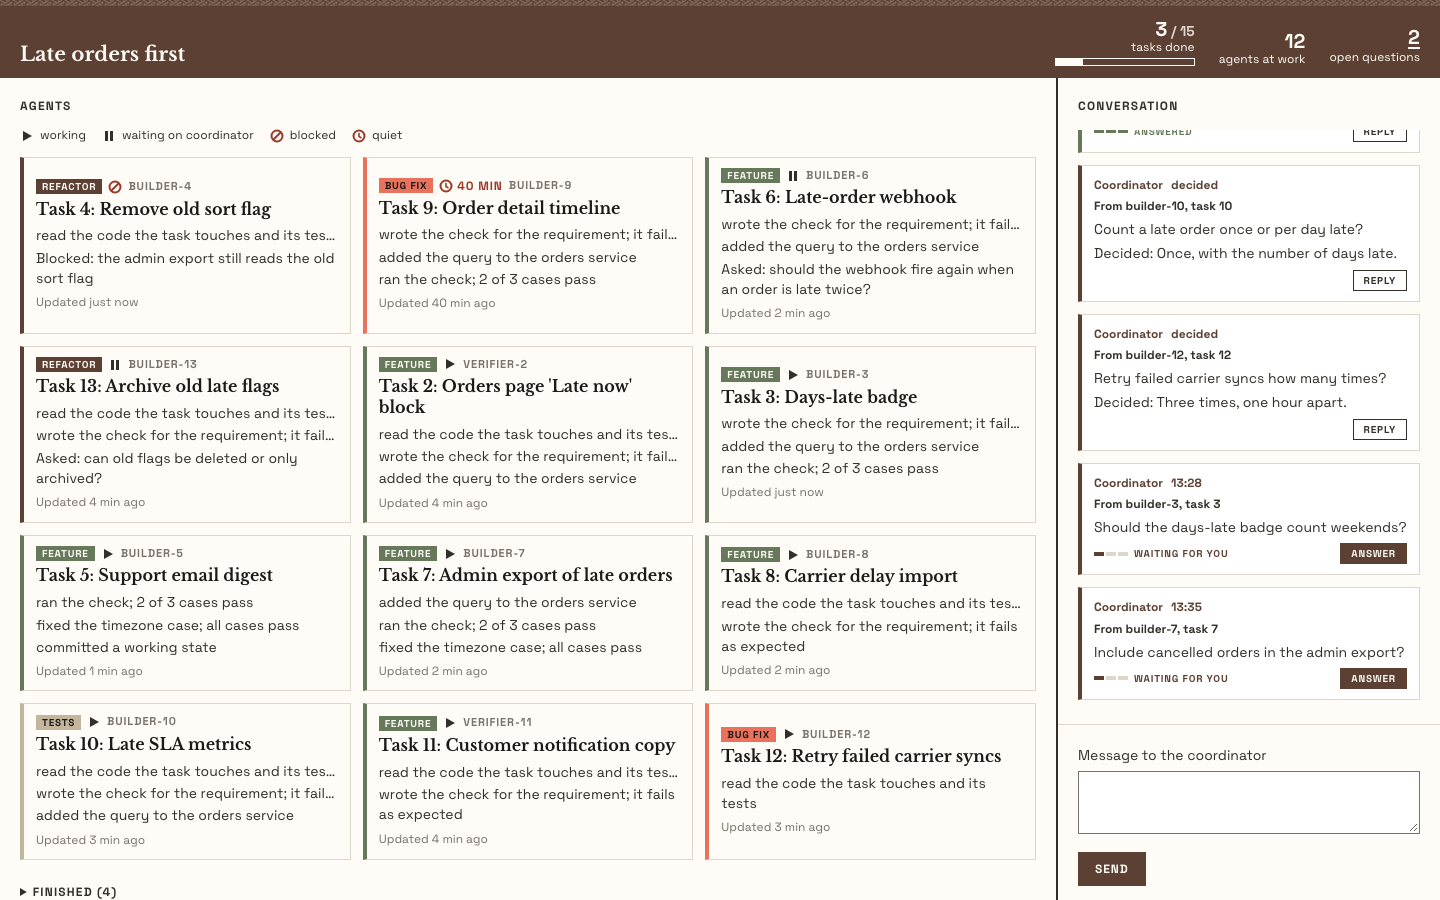
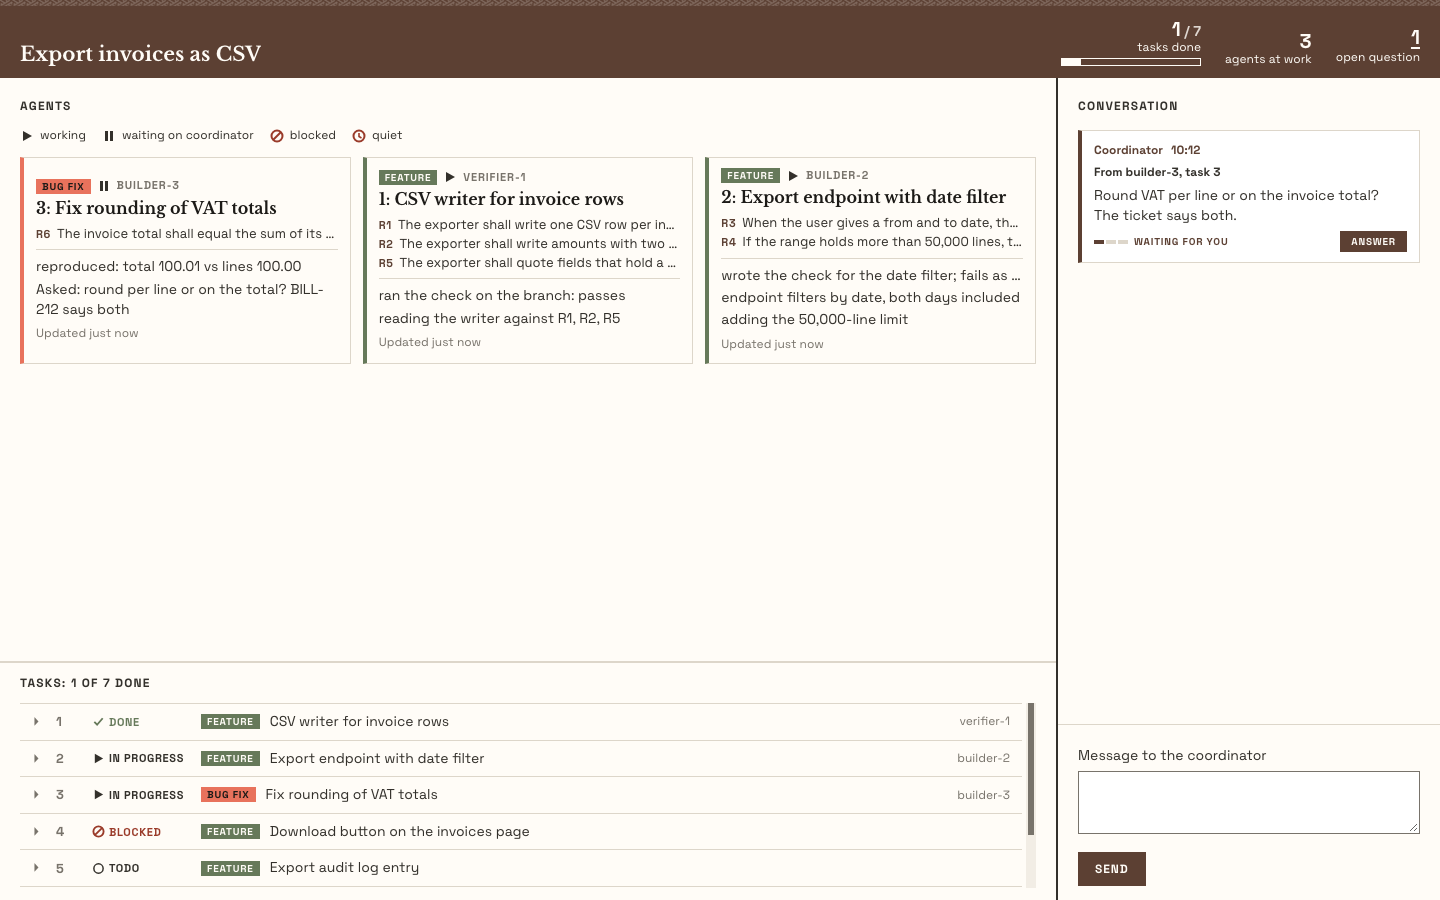
fix(code-better): verifier findings on the dashboard tasks
Close an open pop-up when its agent hands back, keep a JSON null from
showing as "None", match no task when an agent names none, hide a start
line written with a space before its colon, ask the coordinator for the
agent file before verifiers too, and update the docs and screenshot.

diff --git a/skills/code-better/scripts/dashboard.html b/skills/code-better/scripts/dashboard.html
@@ -190,7 +190,7 @@ const ICON = {
 const stateIcon = (a, now) => { const s = stateOf(a, now), w = word(a, now);
   return `<span class="state ${s}" role="img" aria-label="${esc(w)}" title="${esc(w)}">${ICON[s]}${s === "quiet" ? esc(w.replace(/^quiet /, "")) : ""}</span>`; };
 const who = a => esc(a.name);
-const taskOf = a => (D.tasks || []).find(t => t.id === a.task);
+const taskOf = a => a.task ? (D.tasks || []).find(t => t.id === a.task) : undefined;
 // A task's requirements with their text from specs.md; an ID the spec does not hold shows as missing, not hidden.
 const reqsOf = t => ((t || {}).requirements || []).map(id => [id, (D.requirements || {})[id]]);
 const reqItems = t => reqsOf(t).map(([id, text]) => `<li dir="auto"><b>${esc(id)}</b>${text ? esc(text) : '<span class="missing">not in the spec</span>'}</li>`).join("");
@@ -208,7 +208,7 @@ function drawAgents(d) {
       <p class="meta">${modeTag(a)} ${stateIcon(a, now)} ${who(a)}</p>
       <h3 dir="auto">${esc(taskLabel(a))}</h3>
       ${reqsOf(taskOf(a)).length ? `<ul class="reqs">${reqItems(taskOf(a))}</ul>` : ""}
-      <ol>${a.lines.filter(l => !l.toLowerCase().startsWith("start:")).slice(-3).map(l => `<li dir="auto">${esc(words(l))}</li>`).join("")}</ol>
+      <ol>${a.lines.filter(l => l.slice(0, l.indexOf(":")).trim().toLowerCase() !== "start").slice(-3).map(l => `<li dir="auto">${esc(words(l))}</li>`).join("")}</ol>
       <p class="ago">Updated ${ago(d.now - a._changed)}</p></button></li>`).join("")
     || `<li class="empty">No agent is working right now.</li>`);
 }
@@ -222,7 +222,7 @@ function drawTasks(d) {
   $("tasks-h").textContent = `Tasks: ${tasks.filter(t => DONE.has(t.status)).length} of ${tasks.length} done`;
   // The tasks keep their own order, the one tasks.md gives; a task an agent works on reads "in progress".
   setHTML($("tasks"), tasks.map(t => {
-    const live = d.agents.filter(a => a.task === t.id && a.state !== "finished");
+    const live = d.agents.filter(a => a.task && a.task === t.id && a.state !== "finished");
     const st = DONE.has(t.status) ? "done" : t.status === "blocked" ? "blocked" : live.length ? "active" : "todo";
     const word = st === "active" ? "in progress" : st;
     const tag = has(t.mode) ? `<span class="mode m-${MODES[t.mode.trim().toLowerCase()] || "other"}">${esc(t.mode)}</span>` : "";
@@ -343,7 +343,8 @@ function placePop(anchor) {
 function fillPop() {
   const el = $("pop"); if (!el || !D) return;
   const ta = el.querySelector("textarea"), typed = ta ? ta.value : "", focused = ta && document.activeElement === ta;
-  const a = D.agents.find(x => x.name === OPEN.id); if (!a) return closePop();
+  // An agent that handed back leaves the page, its pop-up too.
+  const a = D.agents.find(x => x.name === OPEN.id && x.state !== "finished"); if (!a) return closePop();
   const label = `Message about ${a.name}'s work`;
   const html = `<button type="button" class="x" aria-label="Close">×</button>
     <p class="meta">${modeTag(a)} ${stateIcon(a, D.now)} ${who(a)}${has(a.branch) ? " on " + esc(a.branch) : ""}</p>

diff --git a/skills/code-better/scripts/dashboard.py b/skills/code-better/scripts/dashboard.py
@@ -130,7 +130,7 @@ def read_agent(logs: Path, name: str) -> dict:
         state = STEPS.get(line.partition(":")[0].strip().lower(), "working")
     return {
         "name": name,
-        **{key: str(about.get(key, "")) for key in ("role", "task", "mode", "branch")},
+        **{key: "" if about.get(key) is None else str(about[key]) for key in ("role", "task", "mode", "branch")},
         "state": state,
         "lines": lines[-40:],
         "_changed": max(f.stat().st_mtime for f in (card, log) if f.exists()),

diff --git a/docs/code-better.md b/docs/code-better.md
@@ -81,10 +81,11 @@ When the work splits into several tasks that each need their own review, such as
 
 When it coordinates several agents, it opens a dashboard in your browser, if it can run a command in the background. The dashboard updates as the agents work:
 
-![The live dashboard: figures for tasks done, agents at work and open questions; one card per agent with its task's mode, a state icon and its latest steps, stuck agents first; and a conversation with the coordinator on the right](img/code-better-dashboard.png)
+![The live dashboard: figures for tasks done, agents at work and open questions; one card per agent with its task's mode, a state icon, its task's requirements and its latest steps, stuck agents first; the task list pinned under the agents; and a conversation with the coordinator on the right](img/code-better-dashboard.png)
 
 - **The figures** at the top: tasks done, agents at work, and open questions. Click the open questions to jump to the first one.
-- **The agents**, one card each, with its task's mode as a coloured tag and edge, an icon for its state (working, waiting on the coordinator, blocked, or quiet for 15 minutes), and its latest steps. Blocked and quiet agents come first, then the rest by task number. Click a card for the agent's recent log and to ask about its work. Agents that handed back are under Finished.
+- **The agents** at work, one card each, with its task's mode as a coloured tag and edge, an icon for its state (working, waiting on the coordinator, blocked, or quiet for 15 minutes), the requirements of its task, and its latest steps. Blocked and quiet agents come first, then the rest in the order of the task list. Click a card for the agent's recent log, its task's requirements and check, and to ask about its work. Agents that handed back leave the page.
+- **The tasks**, pinned under the agents: one row per task with its status, mode and the agents at work on it. Open a row for its requirements, its check, and a button per agent. Past five rows the list scrolls; its heading says how many tasks are done.
 - **The conversation** with the coordinating agent: write to it, reply to any message, and see each message move from seen to answered. Each decision the coordinator takes on its own shows there, and you can reply to change it. Its questions to you come last, next to the message box, until you answer. It also asks them in the chat and waits for your answer from either place.
 
 The dashboard reads the change's folder, `.code/<change>/`, and keeps running until you tell the agent you are done with it.

diff --git a/skills/code-better/modes/coordinate.md b/skills/code-better/modes/coordinate.md
@@ -27,7 +27,7 @@ IF the harness can run a shell command in the background, and the user's browser
 
 IF your harness tells you when a background command ends, ALSO RUN `python3 scripts/dashboard.py wait <change folder>` in the background while the dashboard runs: it ends with the user's new actions in the page. START it again at once each time it ends, before you act on what it printed.
 
-START a builder for each task that can run in parallel: READ [../agents/builder.md](../agents/builder.md), FILL IN its Input, and GIVE the whole file, without its HOW TO USE block, to a new sub-agent as its prompt. GIVE each builder and verifier its own log, `.code/<change>/logs/<agent name>.md`, in its `log` input, with a name no other agent of the change uses. BEFORE you start it, WRITE `.code/<change>/logs/<agent name>.json`: `{"role": "builder", "task": "T3", "mode": "bug fix", "branch": "fix/t3-reads"}`, with `role` builder or verifier, `task` the task's # exactly as `tasks.md` writes it, `mode` one of feature, bug fix, refactor or tests, the one the agent works in, and `branch` the branch it works on. The dashboard reads what the agent works on from this file. IF the harness lets you choose a model, USE a cheaper model than yours for builders and the most capable model for verifiers.
+START a builder for each task that can run in parallel: READ [../agents/builder.md](../agents/builder.md), FILL IN its Input, and GIVE the whole file, without its HOW TO USE block, to a new sub-agent as its prompt. GIVE each builder and verifier its own log, `.code/<change>/logs/<agent name>.md`, in its `log` input, with a name no other agent of the change uses. BEFORE you start each builder or verifier, WRITE `.code/<change>/logs/<agent name>.json`: `{"role": "builder", "task": "T3", "mode": "bug fix", "branch": "fix/t3-reads"}`, with `role` builder or verifier, `task` the task's # exactly as `tasks.md` writes it, `mode` one of feature, bug fix, refactor or tests, the one the agent works in, and `branch` the branch it works on. The dashboard reads what the agent works on from this file. IF the harness lets you choose a model, USE a cheaper model than yours for builders and the most capable model for verifiers.
 
 ## 3. Answer the builders and verify each task
 
